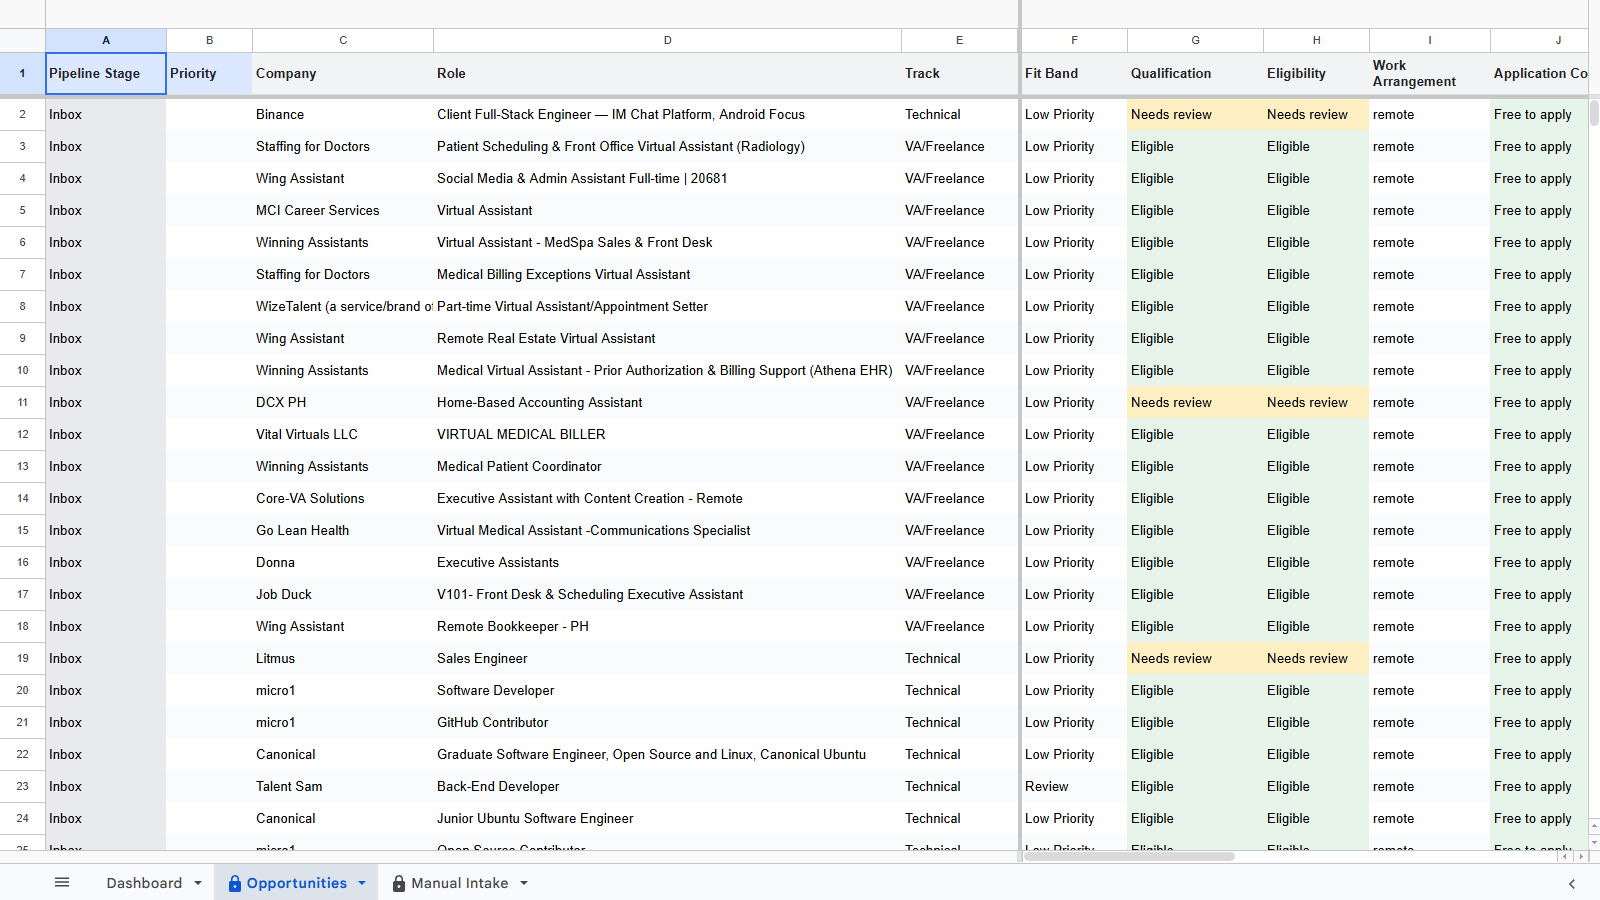
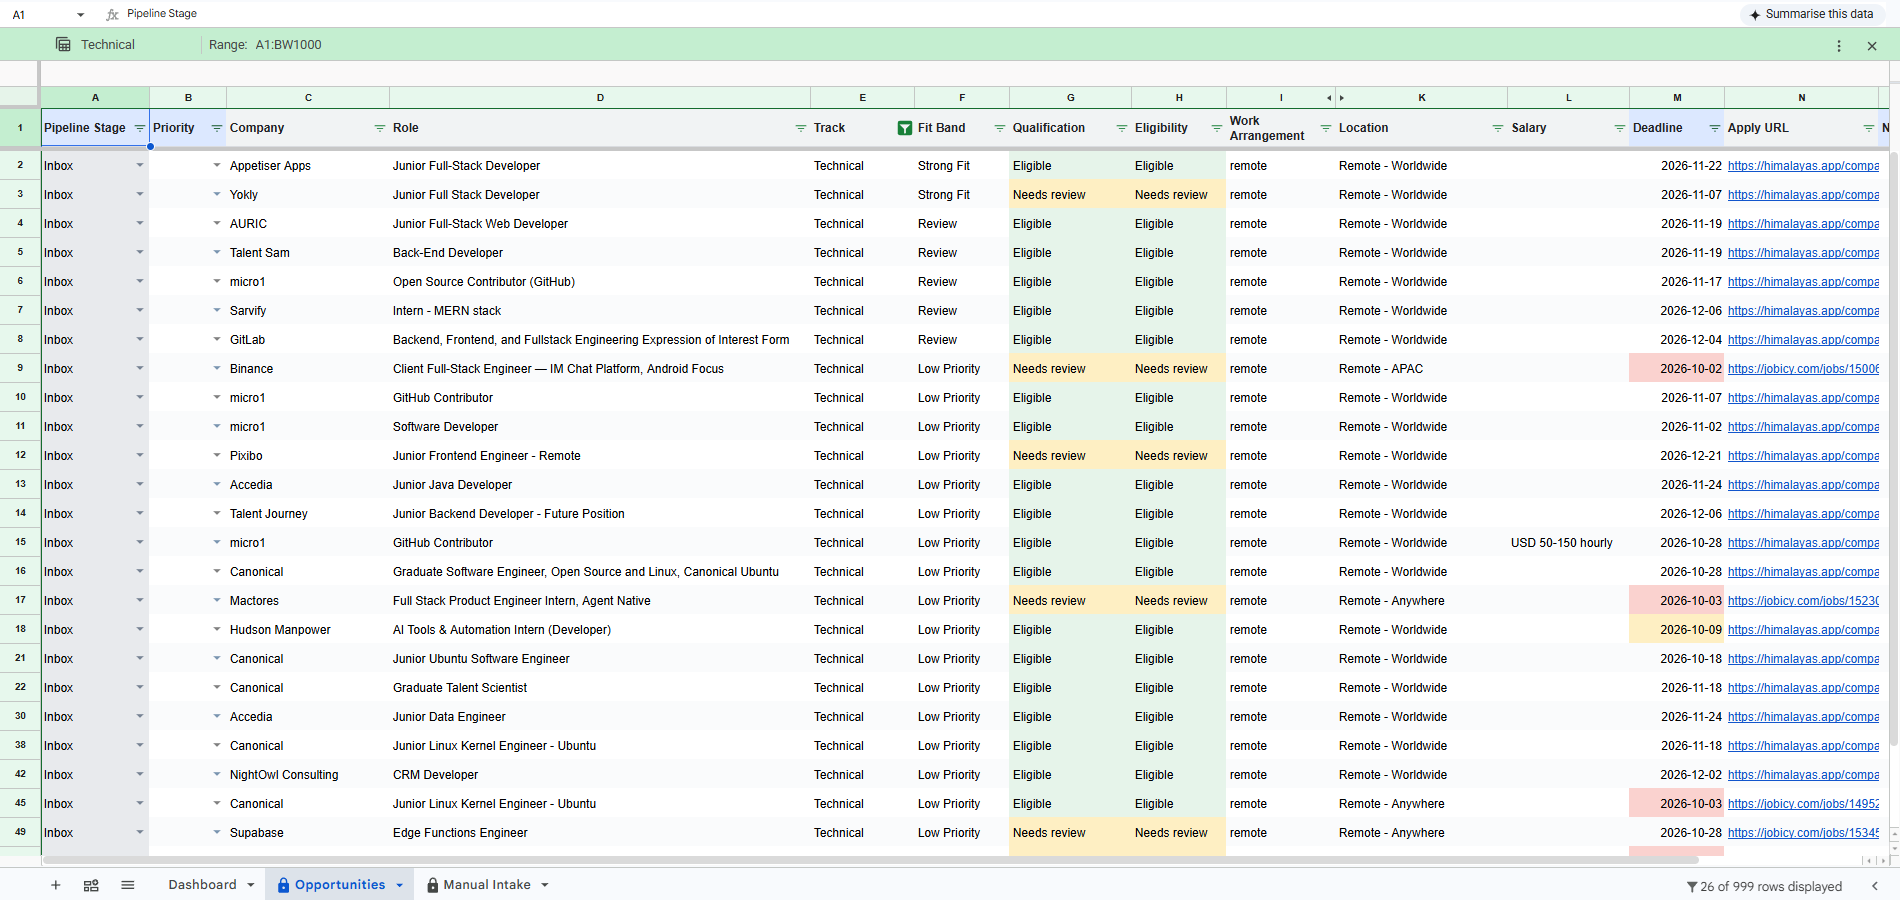
docs: ground portfolio showcase in dated evidence
Prevent outdated workbook captures and historical run counts from being presented as current results. Clarify claim boundaries and provide readable desktop and mobile architecture diagrams.

diff --git a/docs/CASE_STUDY.md b/docs/CASE_STUDY.md
@@ -1,5 +1,22 @@
 # Case study: a zero-budget, policy-aware job-search assistant
 
+## Project facts for portfolio reuse
+
+This section is the factual source for a portfolio page; keep dated results and image captions
+attached to their evidence rather than presenting them as current or typical outcomes. The
+tables below are editorial reference material, not a requirement to reproduce tables on the
+website verbatim.
+
+| Item | Verified project fact |
+|---|---|
+| Creator and role | Mark Daniel Iguban — sole designer and developer; built for personal use. |
+| Status | Working local Windows workflow with daily scheduled runs. The source code is public, but the Google Sheets workbook is private. There is no hosted or self-service live demo. |
+| Source code | [GitHub repository](https://github.com/SAIKO0000/jobhunt-automation), MIT licensed. A repository link is the appropriate public call to action. |
+| Main stack | Python 3.12, Pydantic, `httpx`, `tenacity`, Windows Task Scheduler, Google Sheets API with desktop OAuth, Windows Credential Manager, local snapshots, and `pytest`. n8n and cloud runtime are not used. |
+| Active acquisition | Himalayas and Jobicy public feeds are the only enabled automated sources as of October 8, 2026. Restricted job sites require manual intake. |
+| AI status | Gemini and Ollama integrations are implemented but disabled; the documented production workflow uses deterministic rules. |
+| Cost boundary | No recurring platform charge in the chosen setup; it uses an existing Windows computer, disk, electricity, and internet connection. |
+
 ## The problem
 
 Searching for early-career technical and virtual-assistant work involves repeatedly checking
@@ -20,7 +37,8 @@ application, proposal, and message under human control.
 - **No autonomous outreach.** Approval in a spreadsheet could not submit a form or send a
   message.
 - **Data minimization.** OAuth credentials, workbook snapshots, logs, résumé contact details,
-  and live job-search activity could not enter the repository.
+  and personal workflow data stay out of the repository. Reviewed screenshots may show public
+  listing metadata, but not private notes, account details, or workbook links.
 - **Early-career realism.** Explicit senior roles, excessive experience requirements, unpaid
   work, and applicant fees needed to be removed without hiding uncertain cases from review.
 
@@ -85,12 +103,60 @@ a September 3, 2026 operational sample, it processed 119 listings from two sourc
 | Quarantined as malformed or unsafe | 0 |
 
 This demonstrates the purpose of the pipeline: reduce a large discovery batch to a small,
-explainable review queue while preserving audit and recovery information.
+explainable review queue while preserving audit and recovery information. The counts match a
+successful Task Scheduler entry in the private September 3 Run Log snapshot; the private
+snapshot and workbook ID are not published.
 
-The automated suite currently has 173 passing tests and 84.16% coverage. It exercises source
-parsing, host and response limits, formula-injection protection, qualification boundaries,
-deduplication, conservative listing-availability checks, workbook migration, human-edit
-conflicts, pending-run replay, credential failures, and the no-outbound-action invariant.
+The [dashboard](assets/dashboard.png) and [Technical opportunities view](assets/opportunities.png)
+are authentic captures from October 7, 2026, not images of the September 3 sample above.
+The first two pictured Himalayas listings returned exact-job details on the capture date;
+other visible links are not all independently verified and may expire. The screenshots show
+the interface and a later queue state, not proof of applications or hiring outcomes.
+
+As checked October 8, 2026, the automated suite has 198 passing tests and 84.50% statement
+coverage. It exercises source parsing, host and response limits, formula-injection protection,
+qualification boundaries, deduplication, conservative listing-availability checks, workbook
+migration, human-edit conflicts, pending-run replay, credential failures, and the
+no-outbound-action invariant.
+Coverage is a measure of executed code statements, not a success or reliability rate.
+
+## Evidence and image guide
+
+| Website claim or asset | Evidence and date | What it supports—and does not |
+|---|---|---|
+| 119 listings classified as 15 actionable, 3 needing review, and 101 excluded | Successful scheduled Run Log entry in a private September 3, 2026 snapshot | One operational sample. It does not establish hiring outcomes, a typical daily yield, or the state pictured in the later screenshots. |
+| [Dashboard screenshot](assets/dashboard.png) | Authentic private-workbook capture, October 7, 2026, after the 18:10 Manila run | The local-only safety banner, run health, and review interface at that moment. Its live totals are not the September 3 sample. |
+| [Technical view screenshot](assets/opportunities.png) | Authentic capture, October 7, 2026; the first two pictured Himalayas listings returned exact-job details that day | The queue's fields and saved Technical view. Other pictured links were not all independently checked and no listing is guaranteed to remain open. |
+| [Architecture diagram](assets/architecture.svg) and [narrow-screen diagram](assets/architecture-mobile.svg) | Designed illustrations of the checked-in local workflow | System relationships and the manual-action boundary. These are diagrams, not product screenshots. |
+| 198 tests; 84.50% statement coverage | Local `pytest --cov=jobhunt` run, October 8, 2026 | Automated-test execution at that revision, not a success rate or proof that every integration path was exercised. Re-run before publishing a later revision. |
+
+Use the Dashboard image for the overview and the Technical view for the filtering/review
+section. Keep their capture dates and limitations in captions; make the wide Technical image
+expandable rather than shrinking its row text to an unreadable thumbnail. Suggested captions:
+
+- **Dashboard:** “Private Google Sheets workbook, October 7, 2026. The daily local run was
+  healthy; no application or message was sent automatically.”
+- **Technical view:** “Technical review queue, October 7, 2026. Public listings are dated
+  snapshots; users check the original source before applying manually.”
+- **Architecture:** “Illustrative local workflow; applications and messages remain manual.”
+
+A private draft VA/Freelance capture is intentionally not among the published assets because
+some pictured listings had not passed the link verification needed to present them as a
+current queue.
+
+## Portfolio claim boundaries
+
+**Accurate short description:** A local Windows pipeline checks two approved public job
+feeds daily, applies explicit qualification and scoring rules, and prepares a Google Sheets
+review queue. The user decides whether to apply and takes that action manually.
+
+Do not describe this as a hosted service, a public live demo, an auto-apply bot, automated
+outreach, LinkedIn/Indeed/JobStreet scraping, or AI-powered production matching. Gemini and
+Ollama code paths exist but are disabled in the current configuration. Do not imply that
+every pictured link is still live, that the sample yields are typical, or that the project
+improved callback, interview, or hiring rates. “Zero-budget” means no recurring platform
+charges in the chosen setup; an existing Windows computer, disk, electricity, and internet
+access are still required.
 
 ## Limitations and next steps
 

diff --git a/README.md b/README.md
@@ -8,10 +8,11 @@ A zero-platform-cost, local Windows opportunity-intelligence pipeline. It collec
 approved public job feeds, applies transparent eligibility and fit rules, and updates a
 user-owned Google Sheets workbook. Applications and messages always remain manual.
 
-![Actual Google Sheets dashboard from the private portfolio demo workbook](docs/assets/dashboard.png)
+![Google Sheets dashboard after a successful local run on October 7, 2026](docs/assets/dashboard.png)
 
-_Actual Google Sheets interface. The private demo copy contains public job listings; browser,
-account, workbook-link, and personal workflow information are excluded from the capture._
+_Actual private-workbook capture from October 7, 2026, after the 18:10 Manila run. Browser,
+account, workbook-link, and personal workflow information are outside the frame. These live
+queue totals are not the September 3 sample reported below._
 
 ## Why this exists
 
@@ -29,14 +30,19 @@ The result is intentionally local-first:
 - Local snapshots, leases, and pending-run files support conflict-safe recovery.
 - Optional Gemini/Ollama analysis is disabled by default and has no paid fallback.
 
-![Actual Google Sheets opportunities queue populated with public job listings](docs/assets/opportunities.png)
+![Technical opportunities view showing real public listings, eligibility, location, salary, deadlines, and source links](docs/assets/opportunities.png)
 
-_Public listing data is attributed in the workbook to Himalayas or Jobicy and retains its
-source link. Personal notes, contacts, application dates, and outcomes are not shown._
+_Actual Technical view captured October 7, 2026. The first two Himalayas listings returned
+exact-job details on the capture date; the image is not a guarantee that every pictured link
+is still live. Other rows may need review or have since expired. Public listings retain source
+links in the workbook; private notes, contacts, and application outcomes are not shown._
 
 ## Architecture
 
-![Local-first architecture with a manual application boundary](docs/assets/architecture.svg)
+<picture>
+  <source media="(max-width: 760px)" srcset="docs/assets/architecture-mobile.svg">
+  <img src="docs/assets/architecture.svg" alt="Local-first job-hunt architecture: daily scheduler, approved feeds, Python qualification, Google Sheets review, then manual application" width="1600">
+</picture>
 
 Task Scheduler provides only the time trigger. The Python package owns policy, validation,
 scoring, provider gates, workbook conflict detection, and recovery. n8n was deliberately
@@ -57,8 +63,9 @@ A scheduled run on September 3, 2026 processed 119 records from two approved sou
 | Excluded | 101 |
 | Quarantined | 0 |
 
-This is an operational sample, not evidence of applications, interviews, or hiring outcomes.
-The current suite contains 173 tests with 84.16% coverage.
+This is a September 3 operational sample, not the October 7 screenshot state or evidence of
+applications, interviews, or hiring outcomes. As checked October 8, 2026, the suite has
+198 passing tests and 84.50% statement coverage.
 
 ## Safety boundary
 

diff --git a/docs/ARCHITECTURE.md b/docs/ARCHITECTURE.md
@@ -1,6 +1,9 @@
 # Local architecture
 
-![Local-first architecture with a manual application boundary](assets/architecture.svg)
+<picture>
+  <source media="(max-width: 760px)" srcset="assets/architecture-mobile.svg">
+  <img src="assets/architecture.svg" alt="Local-first job-hunt architecture: daily scheduler, approved feeds, Python qualification, Google Sheets review, then manual application" width="1600">
+</picture>
 
 ```text
 Windows Task Scheduler
